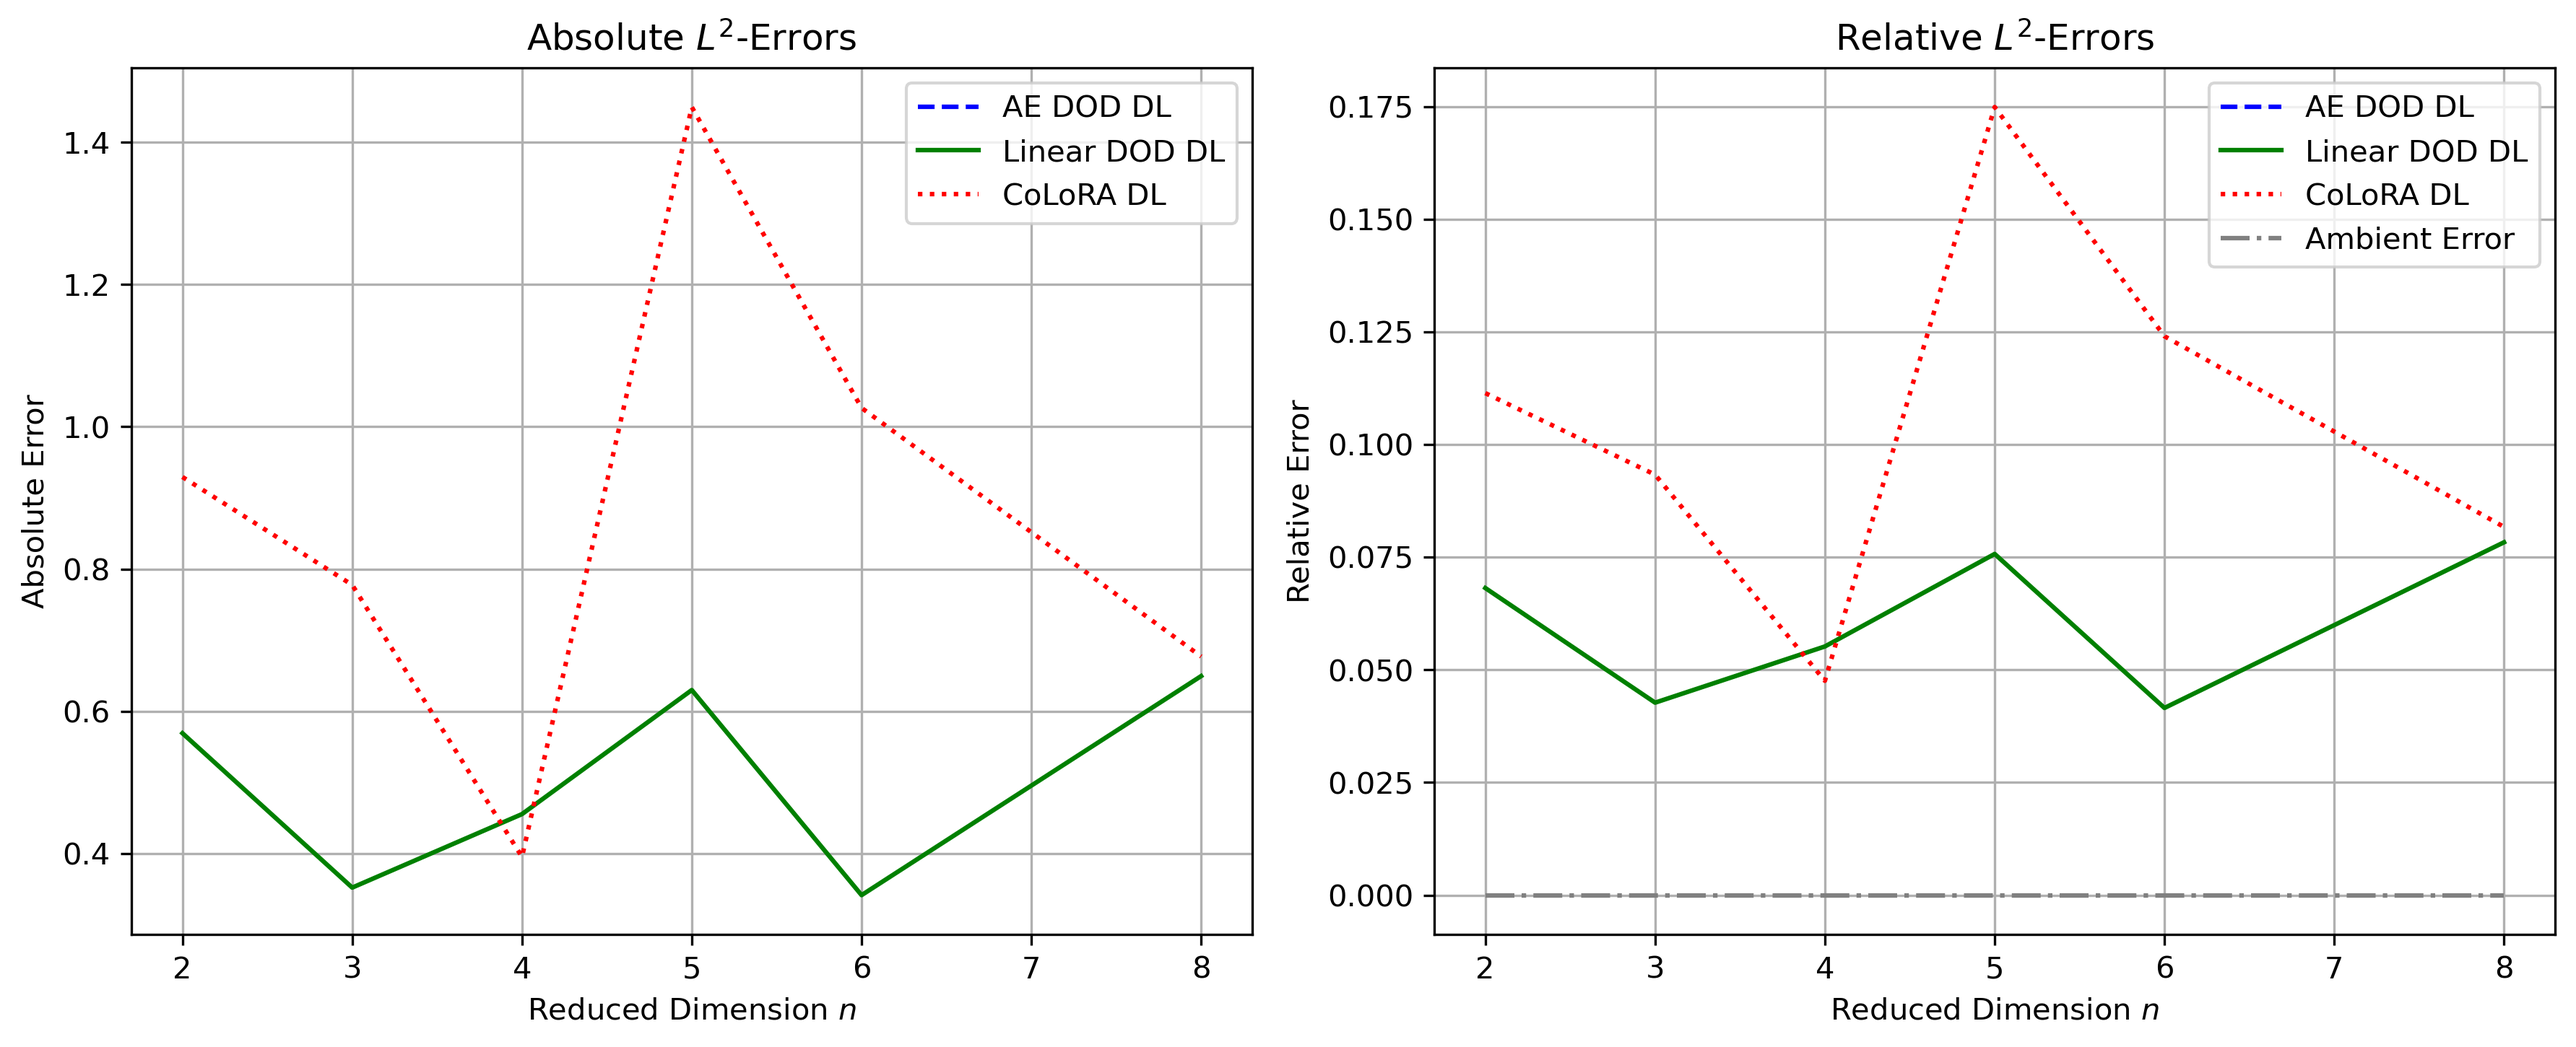
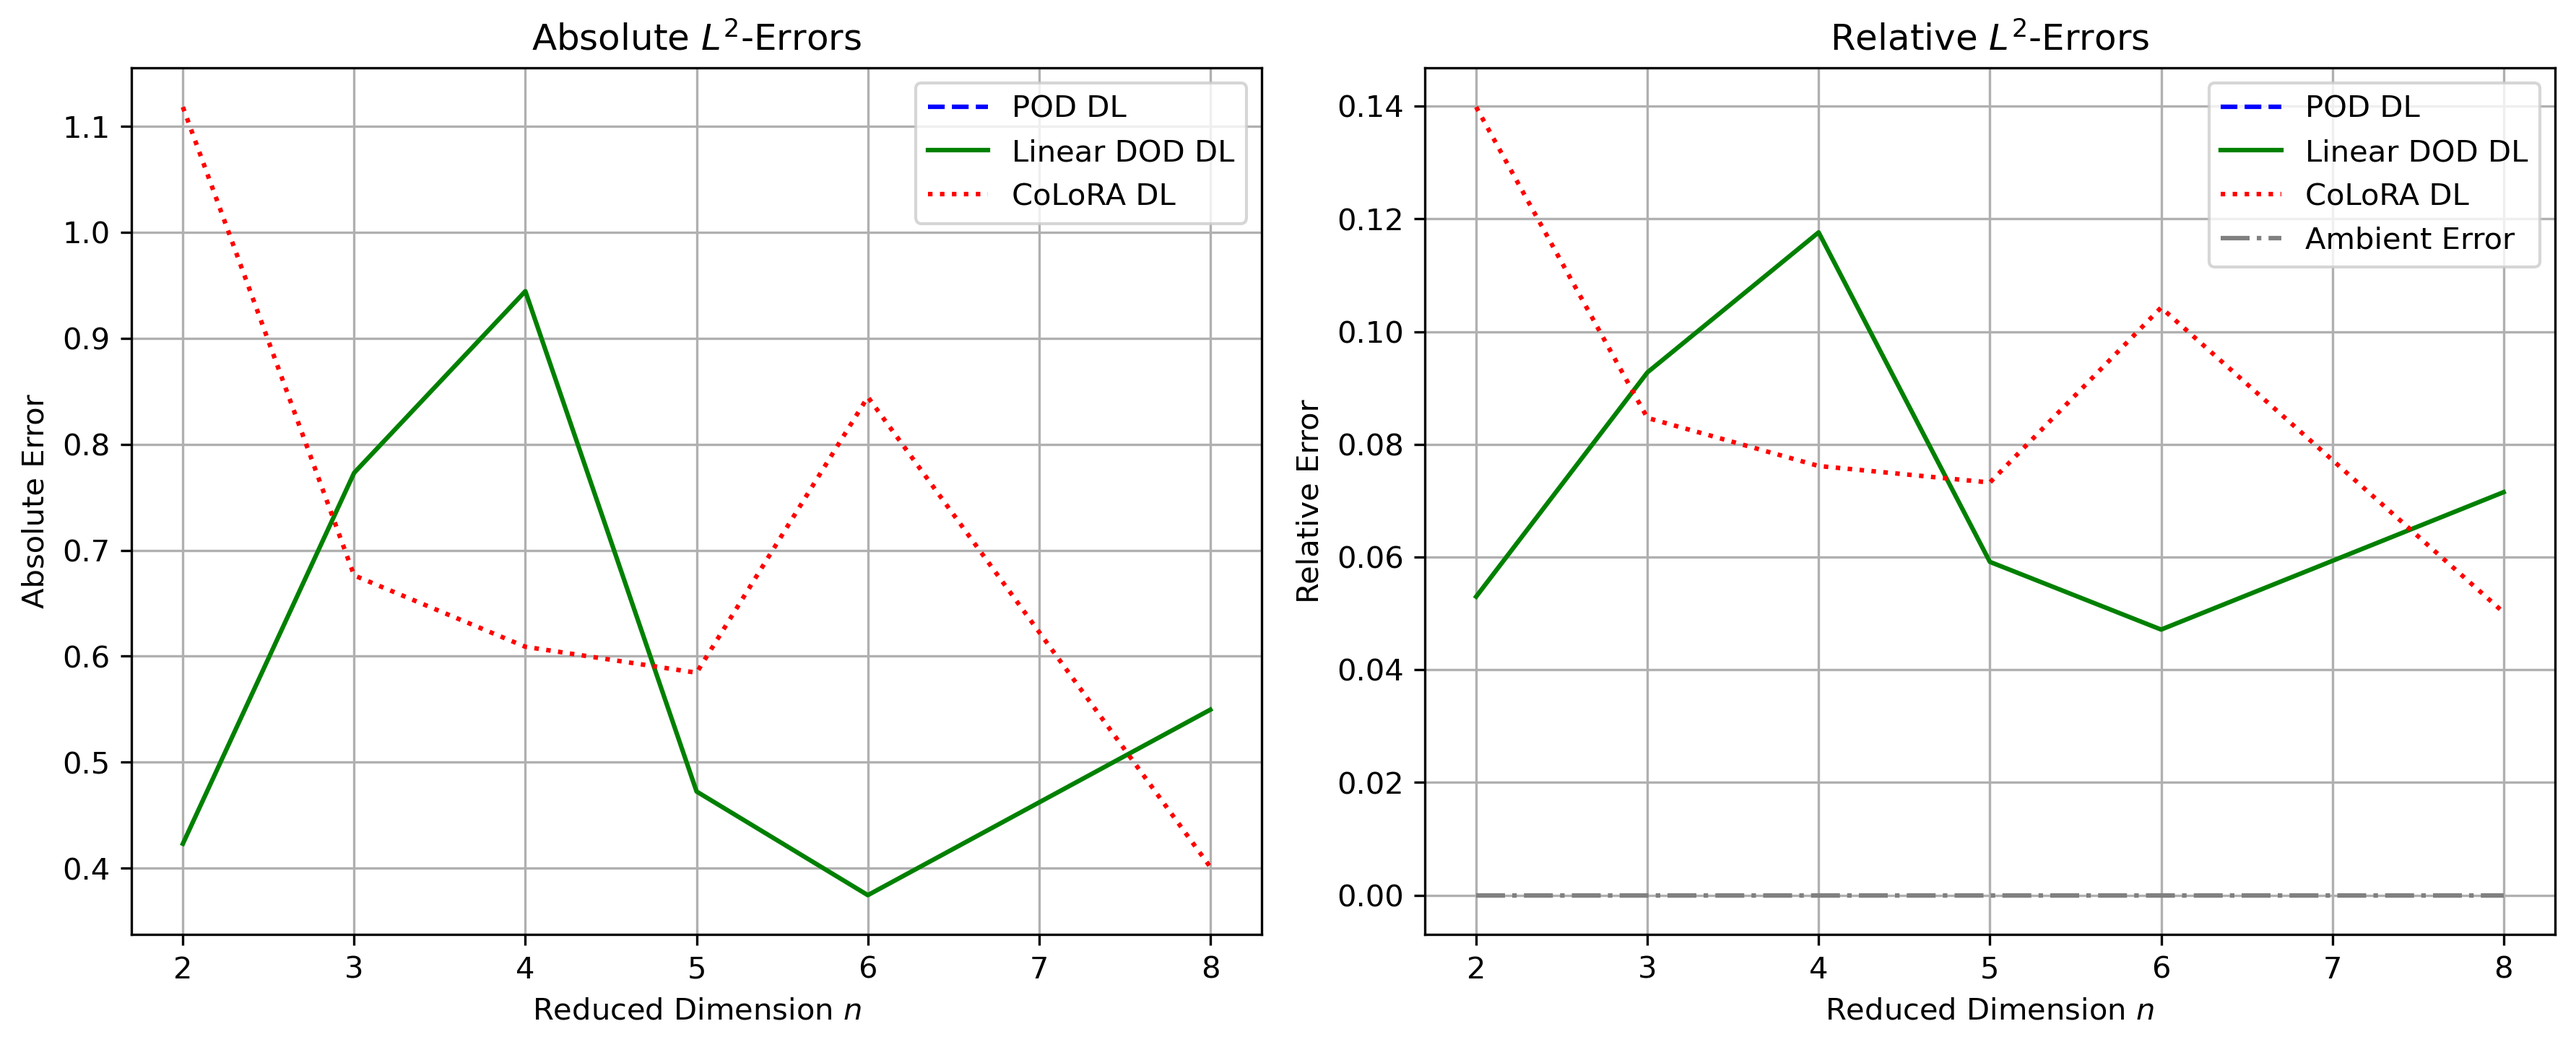
ran for 4 hours

diff --git a/examples/ex01/perf_test_ex01.py b/examples/ex01/perf_test_ex01.py
@@ -25,8 +25,8 @@ pod_in_channels = 1
 pod_hidden_channels = 1
 pod_num_layers = 2
 #Training Example
-generalepochs = 500
-generalrestarts = 2
+generalepochs = 1000
+generalrestarts = 15
 generalpatience = 3
 
 # Fetch Training and Validation set
@@ -249,7 +249,7 @@ if True:
 
 # Define color and style map for consistency
 plot_styles = {
-    'POD DOD DL':     {'color': 'blue',  'linestyle': '--'},
+    'POD DL':     {'color': 'blue',  'linestyle': '--'},
     'Linear DOD DL': {'color': 'green', 'linestyle': '-'},
     'CoLoRA DL':     {'color': 'red',   'linestyle': ':'},
     'Ambient Error': {'color': 'grey',  'linestyle': '-.'}
